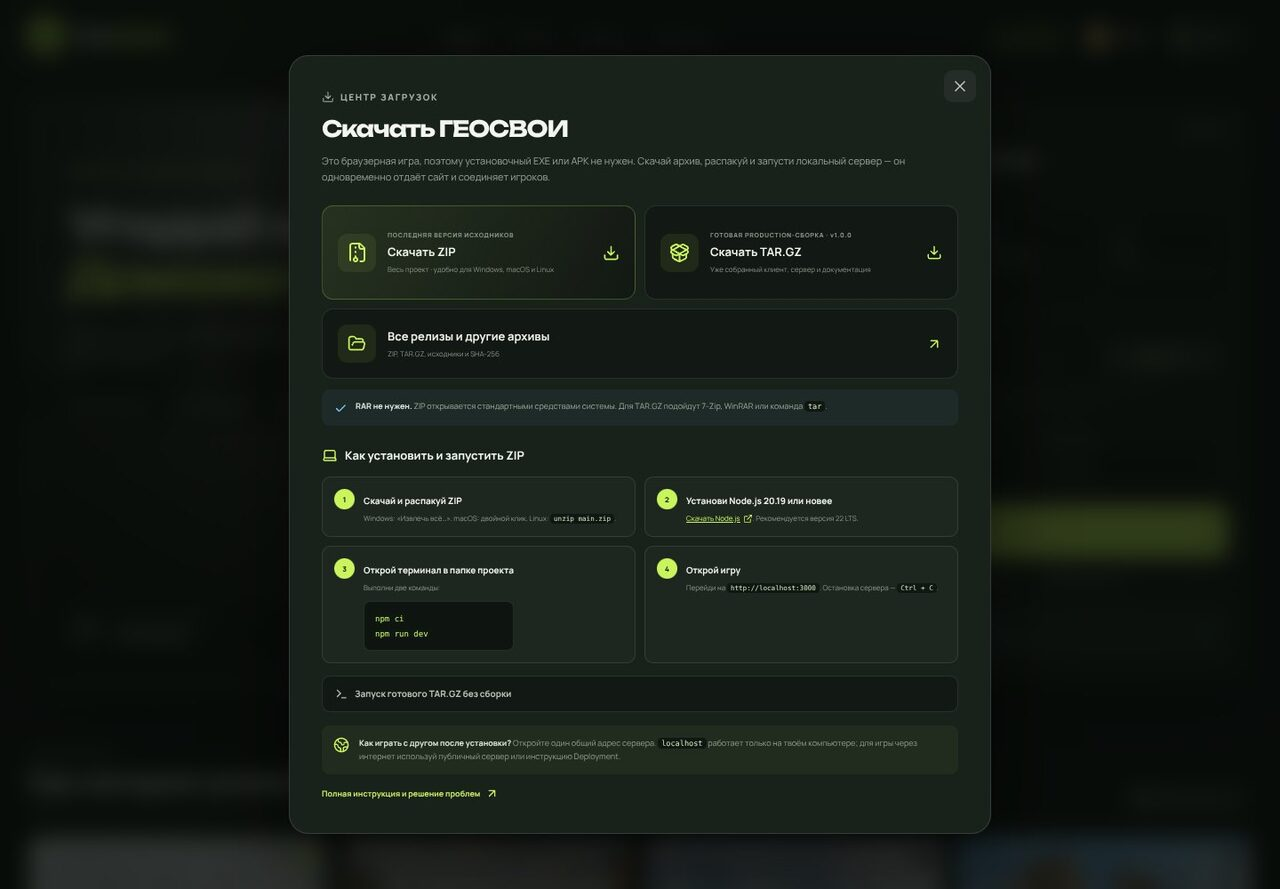
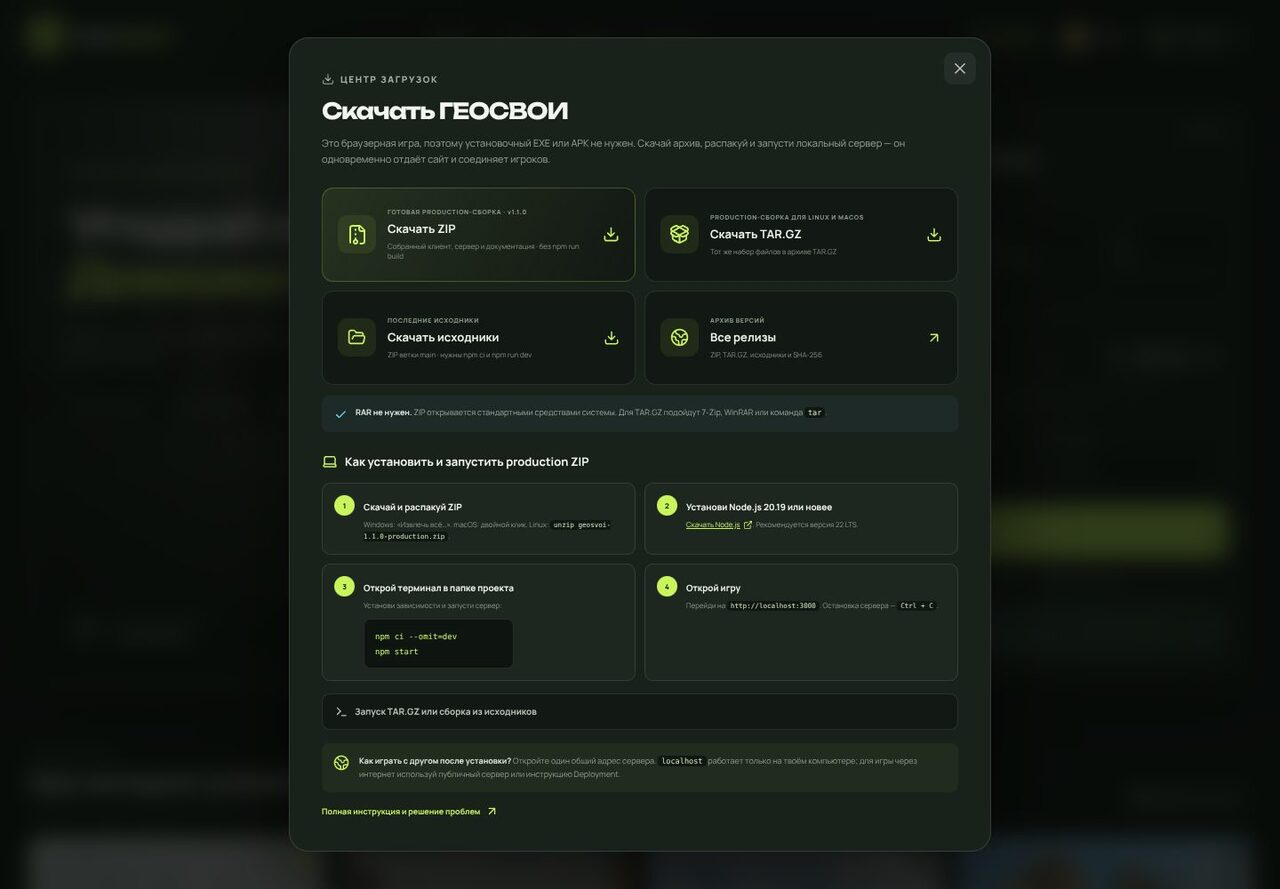
release: prepare 1.1.0 production ZIP downloads
- bump the package and lockfile version to 1.1.0
- feature the ready-to-run production ZIP in the download center and
  keep TAR.GZ, source ZIP and the releases page one click away
- teach the first-run tutorial the production flow (npm ci --omit=dev,
  npm start) and show TAR.GZ/source commands as alternatives
- update README, DOWNLOAD guide and add 1.1.0 release notes

diff --git a/src/components/DownloadModal.tsx b/src/components/DownloadModal.tsx
@@ -2,8 +2,10 @@ import { ArrowUpRight, Check, Download, ExternalLink, FileArchive, FolderOpen, G
 import { Modal } from './UI';
 
 const REPOSITORY = 'https://github.com/romanata10/the-street-view-game-by-ai-';
+const VERSION = '1.1.0';
 const SOURCE_ZIP = `${REPOSITORY}/archive/refs/heads/main.zip`;
-const PRODUCTION_TAR = `${REPOSITORY}/releases/download/v1.0.0/geosvoi-1.0.0-production.tar.gz`;
+const PRODUCTION_ZIP = `${REPOSITORY}/releases/download/v${VERSION}/geosvoi-${VERSION}-production.zip`;
+const PRODUCTION_TAR = `${REPOSITORY}/releases/download/v${VERSION}/geosvoi-${VERSION}-production.tar.gz`;
 const RELEASES = `${REPOSITORY}/releases/latest`;
 const GUIDE = `${REPOSITORY}/blob/main/docs/DOWNLOAD.ru.md`;
 
@@ -15,19 +17,24 @@ export default function DownloadModal({ onClose }: { onClose: () => void }) {
       <p className="download-intro">Это браузерная игра, поэтому установочный EXE или APK не нужен. Скачай архив, распакуй и запусти локальный сервер — он одновременно отдаёт сайт и соединяет игроков.</p>
 
       <div className="download-options">
-        <a className="download-option featured" href={SOURCE_ZIP} target="_blank" rel="noreferrer">
+        <a className="download-option featured" href={PRODUCTION_ZIP} target="_blank" rel="noreferrer">
           <span className="download-option-icon"><FileArchive size={24} /></span>
-          <span><small>ПОСЛЕДНЯЯ ВЕРСИЯ ИСХОДНИКОВ</small><b>Скачать ZIP</b><em>Весь проект · удобно для Windows, macOS и Linux</em></span>
+          <span><small>ГОТОВАЯ PRODUCTION-СБОРКА · v{VERSION}</small><b>Скачать ZIP</b><em>Собранный клиент, сервер и документация · без npm run build</em></span>
           <Download size={19} />
         </a>
         <a className="download-option" href={PRODUCTION_TAR} target="_blank" rel="noreferrer">
           <span className="download-option-icon"><PackageOpen size={23} /></span>
-          <span><small>ГОТОВАЯ PRODUCTION-СБОРКА · v1.0.0</small><b>Скачать TAR.GZ</b><em>Уже собранный клиент, сервер и документация</em></span>
+          <span><small>PRODUCTION-СБОРКА ДЛЯ LINUX И MACOS</small><b>Скачать TAR.GZ</b><em>Тот же набор файлов в архиве TAR.GZ</em></span>
           <Download size={18} />
         </a>
-        <a className="download-option compact" href={RELEASES} target="_blank" rel="noreferrer">
+        <a className="download-option" href={SOURCE_ZIP} target="_blank" rel="noreferrer">
           <span className="download-option-icon"><FolderOpen size={21} /></span>
-          <span><b>Все релизы и другие архивы</b><em>ZIP, TAR.GZ, исходники и SHA-256</em></span>
+          <span><small>ПОСЛЕДНИЕ ИСХОДНИКИ</small><b>Скачать исходники</b><em>ZIP ветки main · нужны npm ci и npm run dev</em></span>
+          <Download size={18} />
+        </a>
+        <a className="download-option" href={RELEASES} target="_blank" rel="noreferrer">
+          <span className="download-option-icon"><Globe2 size={21} /></span>
+          <span><small>АРХИВ ВЕРСИЙ</small><b>Все релизы</b><em>ZIP, TAR.GZ, исходники и SHA-256</em></span>
           <ArrowUpRight size={18} />
         </a>
       </div>
@@ -35,18 +42,19 @@ export default function DownloadModal({ onClose }: { onClose: () => void }) {
       <div className="download-format-note"><Check size={15} /><span><b>RAR не нужен.</b> ZIP открывается стандартными средствами системы. Для TAR.GZ подойдут 7-Zip, WinRAR или команда <code>tar</code>.</span></div>
 
       <section className="download-tutorial">
-        <h3><Laptop size={18} /> Как установить и запустить ZIP</h3>
+        <h3><Laptop size={18} /> Как установить и запустить production ZIP</h3>
         <ol>
-          <li><span>1</span><div><b>Скачай и распакуй ZIP</b><p>Windows: «Извлечь всё…». macOS: двойной клик. Linux: <code>unzip main.zip</code>.</p></div></li>
+          <li><span>1</span><div><b>Скачай и распакуй ZIP</b><p>Windows: «Извлечь всё…». macOS: двойной клик. Linux: <code>unzip geosvoi-{VERSION}-production.zip</code>.</p></div></li>
           <li><span>2</span><div><b>Установи Node.js 20.19 или новее</b><p><a href="https://nodejs.org/en/download" target="_blank" rel="noreferrer">Скачать Node.js <ExternalLink size={11} /></a>. Рекомендуется версия 22 LTS.</p></div></li>
-          <li><span>3</span><div><b>Открой терминал в папке проекта</b><p>Выполни две команды:</p><pre><code>npm ci{`\n`}npm run dev</code></pre></div></li>
+          <li><span>3</span><div><b>Открой терминал в папке проекта</b><p>Установи зависимости и запусти сервер:</p><pre><code>npm ci --omit=dev{`\n`}npm start</code></pre></div></li>
           <li><span>4</span><div><b>Открой игру</b><p>Перейди на <code>http://localhost:3000</code>. Остановка сервера — <code>Ctrl + C</code>.</p></div></li>
         </ol>
       </section>
 
       <details className="production-instructions">
-        <summary><Terminal size={15} /> Запуск готового TAR.GZ без сборки</summary>
-        <pre><code>tar -xzf geosvoi-1.0.0-production.tar.gz{`\n`}cd geosvoi-1.0.0{`\n`}npm ci --omit=dev{`\n`}npm start</code></pre>
+        <summary><Terminal size={15} /> Запуск TAR.GZ или сборка из исходников</summary>
+        <pre><code>tar -xzf geosvoi-{VERSION}-production.tar.gz{`\n`}cd geosvoi-{VERSION}{`\n`}npm ci --omit=dev{`\n`}npm start</code></pre>
+        <pre><code>git clone https://github.com/romanata10/the-street-view-game-by-ai-.git{`\n`}cd the-street-view-game-by-ai-{`\n`}npm ci{`\n`}npm run dev</code></pre>
       </details>
 
       <div className="download-friend-note"><Globe2 size={18} /><p><b>Как играть с другом после установки?</b> Откройте один общий адрес сервера. <code>localhost</code> работает только на твоём компьютере; для игры через интернет используй публичный сервер или инструкцию Deployment.</p></div>

diff --git a/docs/DOWNLOAD.ru.md b/docs/DOWNLOAD.ru.md
@@ -8,28 +8,40 @@
 
 | Что скачать | Для чего | Ссылка |
 |---|---|---|
-| **ZIP с исходниками `main`** | Последняя версия, разработка, самостоятельная сборка | [Скачать ZIP](https://github.com/romanata10/the-street-view-game-by-ai-/archive/refs/heads/main.zip) |
-| **Production TAR.GZ 1.0.0** | Готовый клиент и сервер без команды `npm run build` | [Скачать TAR.GZ](https://github.com/romanata10/the-street-view-game-by-ai-/releases/download/v1.0.0/geosvoi-1.0.0-production.tar.gz) |
+| **Production ZIP 1.1.0** | Готовый клиент и сервер: не нужна команда `npm run build` | [Скачать production ZIP](https://github.com/romanata10/the-street-view-game-by-ai-/releases/download/v1.1.0/geosvoi-1.1.0-production.zip) |
+| **Production TAR.GZ 1.1.0** | Тот же набор файлов для Linux и macOS | [Скачать production TAR.GZ](https://github.com/romanata10/the-street-view-game-by-ai-/releases/download/v1.1.0/geosvoi-1.1.0-production.tar.gz) |
+| **ZIP с исходниками `main`** | Последняя версия, разработка, изменение интерфейса и Google-ключа | [Скачать ZIP исходников](https://github.com/romanata10/the-street-view-game-by-ai-/archive/refs/heads/main.zip) |
 | **Последний стабильный релиз** | Все доступные production ZIP/TAR.GZ, SHA-256 и исходники | [Открыть Releases](https://github.com/romanata10/the-street-view-game-by-ai-/releases/latest) |
 
 В приложении эти ссылки также находятся в кнопке **«Скачать»** в верхней панели.
 
-> Production ZIP и TAR.GZ формируются GitHub Actions из одного набора файлов. Для новых релизов workflow прикрепляет оба архива и отдельный `.sha256` для каждого. Специальный RAR не требуется: ZIP открывается встроенными средствами Windows, macOS и Linux.
+> Production ZIP и TAR.GZ формируются GitHub Actions из одного набора файлов. Для каждого релиза workflow прикрепляет оба архива и отдельный `.sha256` для каждого. Специальный RAR не требуется: ZIP открывается встроенными средствами Windows, macOS и Linux.
 
-## Вариант 1. ZIP с исходниками
+## Вариант 1. Готовый production-архив (рекомендуется)
+
+Production-архив уже содержит собранный `dist`, поэтому Vite и TypeScript для запуска не нужны. Достаточно Node.js и установки production-зависимостей.
 
 ### 1. Распакуйте архив
 
-- **Windows:** нажмите правой кнопкой по ZIP → **«Извлечь всё…»**.
-- **macOS:** откройте ZIP двойным кликом.
-- **Linux:** используйте файловый менеджер или команду:
+**ZIP:**
+
+- **Windows:** правой кнопкой по файлу → **«Извлечь всё…»** → **«Извлечь»**.
+- **macOS:** двойной клик по ZIP.
+- **Linux:** файловый менеджер или команда:
 
 ```bash
-unzip main.zip
-cd the-street-view-game-by-ai--main
+unzip geosvoi-1.1.0-production.zip
+cd geosvoi-1.1.0
 ```
 
-GitHub формирует имя папки автоматически, поэтому оно может немного отличаться. Перейдите в папку, внутри которой находятся `package.json`, `src`, `server` и `shared`.
+**TAR.GZ:** подойдут 7-Zip, WinRAR, архиватор macOS или команда `tar`:
+
+```bash
+tar -xzf geosvoi-1.1.0-production.tar.gz
+cd geosvoi-1.1.0
+```
+
+Внутри должны находиться `package.json`, папки `dist`, `server`, `shared` и `docs`.
 
 ### 2. Установите Node.js
 
@@ -37,7 +49,7 @@ GitHub формирует имя папки автоматически, поэт
 
 [Скачать Node.js с официального сайта](https://nodejs.org/en/download).
 
-Проверьте установку:
+Проверьте установку в новом окне терминала:
 
 ```bash
 node --version
@@ -46,11 +58,9 @@ npm --version
 
 ### 3. Установите зависимости и запустите игру
 
-Откройте терминал в папке проекта:
-
 ```bash
-npm ci
-npm run dev
+npm ci --omit=dev
+npm start
 ```
 
 После сообщения `ГЕОСВОИ запущены` откройте:
@@ -59,59 +69,52 @@ npm run dev
 http://localhost:3000
 ```
 
-Остановить сервер можно клавишами **Ctrl + C**. При следующем запуске достаточно команды `npm run dev`; повторно выполнять `npm ci` после каждого закрытия не нужно.
+Остановить сервер можно клавишами **Ctrl + C**. При следующем запуске достаточно команды `npm start`; повторно выполнять `npm ci` после каждого закрытия не нужно.
 
-## Вариант 2. Готовый production-архив
+## Вариант 2. ZIP с исходниками
 
-Production-архив уже содержит собранный `dist`, поэтому Vite и TypeScript для запуска не нужны.
+Этот вариант нужен, если вы хотите менять код, интерфейс или подключить собственный Google API. В архиве есть `src`, но нет готового `dist`: клиент собирается локально.
 
-### ZIP
-
-Распакуйте production ZIP и откройте терминал в папке `geosvoi-ВЕРСИЯ`.
-
-### TAR.GZ
-
-Windows 10/11, macOS и Linux могут распаковать его командой `tar`. Также подойдут 7-Zip и WinRAR:
+1. Распакуйте ZIP так же, как описано выше. GitHub формирует имя папки автоматически, поэтому оно может немного отличаться.
+2. Установите Node.js 20.19+.
+3. Откройте терминал в папке, где находятся `package.json`, `src`, `server` и `shared`.
+4. Установите зависимости и запустите dev-сервер:
 
 ```bash
-tar -xzf geosvoi-1.0.0-production.tar.gz
-cd geosvoi-1.0.0
+npm ci
+npm run dev
 ```
 
-### Запуск обоих форматов
-
-```bash
-npm ci --omit=dev
-npm start
-```
-
-Откройте `http://localhost:3000`. В production-архиве нет исходного `src`; для изменения интерфейса или встраивания нового Google-ключа скачайте ZIP с исходниками.
+После сообщения `ГЕОСВОИ запущены` откройте `http://localhost:3000`. Для production-запуска исходников выполните `npm run build`, затем `npm start`.
 
 ## Проверка SHA-256
 
-Если рядом с архивом есть `.sha256`, скачайте его в ту же папку.
+Рядом с каждым production-архивом лежит файл `.sha256`. Скачайте архив и соответствующий `.sha256` в одну папку.
 
 Linux / macOS:
 
 ```bash
-sha256sum -c geosvoi-1.0.0-production.tar.gz.sha256
+sha256sum -c geosvoi-1.1.0-production.zip.sha256
+sha256sum -c geosvoi-1.1.0-production.tar.gz.sha256
 ```
 
 Windows PowerShell:
 
 ```powershell
-(Get-FileHash .\geosvoi-1.0.0-production.tar.gz -Algorithm SHA256).Hash
+(Get-FileHash .\geosvoi-1.1.0-production.zip -Algorithm SHA256).Hash
+(Get-FileHash .\geosvoi-1.1.0-production.tar.gz -Algorithm SHA256).Hash
 ```
 
 Сравните результат со строкой внутри `.sha256`. Регистр букв хеша значения не имеет.
 
 ## Google Street View
 
-Без ключа доступны все встроенные демонстрационные панорамы, прогулка, избранное и совместное присутствие. Для реальных Google-сцен:
+Без ключа доступны все встроенные демонстрационные панорамы, свободная прогулка, избранное и совместное присутствие. Для реальных Google-сцен:
 
-1. Создайте `.env` по примеру `.env.example`.
-2. Добавьте `VITE_GOOGLE_MAPS_API_KEY=ваш_ключ`.
-3. В исходниках выполните `npm run build`, затем запустите `npm start`.
+1. Возьмите архив с исходниками: в production-сборке нет папки `src`, поэтому ключ нельзя встроить без пересборки.
+2. Создайте `.env` по примеру `.env.example`.
+3. Добавьте `VITE_GOOGLE_MAPS_API_KEY=ваш_ключ`.
+4. Выполните `npm run build`, затем `npm start`.
 
 Полная настройка: [GOOGLE_MAPS.ru.md](GOOGLE_MAPS.ru.md). Не отправляйте ключ в чат и не коммитьте `.env`.
 
@@ -127,6 +130,15 @@ Windows PowerShell:
 
 После этого хост создаёт матч или **«Погулять с другом»**, а гость заходит по ссылке/коду. В свободную прогулку можно войти даже после её начала.
 
+## Обновление до новой версии
+
+1. Скачайте архивы нового релиза и проверьте SHA-256.
+2. Остановите старый сервер (`Ctrl + C`).
+3. Распакуйте новый архив в отдельную папку.
+4. Выполните `npm ci --omit=dev` и `npm start`.
+
+Профиль, монеты и избранное хранятся в `localStorage` браузера, поэтому обновление серверных файлов их не удаляет. Комнаты существуют только в памяти сервера: после перезапуска создайте новую и отправьте другу свежую ссылку.
+
 ## Частые проблемы
 
 ### `npm is not recognized` / `npm: command not found`
@@ -140,7 +152,7 @@ Node.js не установлен или терминал открыт до ус
 ### Порт 3000 уже занят
 
 ```bash
-PORT=8080 npm run dev
+PORT=8080 npm start
 ```
 
 Откройте `http://localhost:8080`.
@@ -152,3 +164,7 @@ PORT=8080 npm run dev
 ### Архив не открывается
 
 Скачайте его ещё раз и проверьте SHA-256. Для TAR.GZ используйте 7-Zip/WinRAR либо выберите ZIP из последнего релиза. Не переименовывайте расширение архива вручную.
+
+### После распаковки нет папки `src`
+
+Это production-архив. Для изменения кода скачайте ZIP с исходниками. Для обычной игры отсутствие `src` не мешает.

diff --git a/docs/releases/v1.1.0.md b/docs/releases/v1.1.0.md
@@ -1,0 +1,66 @@
+# ГЕОСВОИ 1.1.0 — свободная прогулка с другом
+
+В этом релизе появился отдельный совместный режим без таймера и соревнования, избранные панорамы и встроенный центр загрузок. Присутствие друга теперь явно показывается во всех режимах.
+
+## Что нового
+
+- **«Погуляй с другом»** — свободная прогулка по 16 встроенным местам и Google Street View без таймера, ответов, очков и раундов.
+- **Независимые места** — каждый участник меняет свою сцену, не перемещая остальных.
+- **Переход к другу** — кнопка «К другу» открывает текущую локацию друга, а в Google — точный `panoId` и направление взгляда.
+- **Подключение после старта** — гость входит по ссылке в уже идущую прогулку и появляется в сцене хоста.
+- **Избранные места** — сохраняются в браузере вместе с Google `panoId` и направлением взгляда; вкладка «Избранное» открывает их одним нажатием.
+- **«В том же месте» во всех режимах** — постоянный баннер, статус в списке игроков и уведомление о встрече работают и в прогулке, и в соревновательном матче.
+- **Центр загрузок** — кнопка «Скачать» с готовыми production ZIP/TAR.GZ, исходниками, пошаговой установкой и проверкой SHA-256.
+
+## Быстрый старт из production-архива
+
+```bash
+unzip geosvoi-1.1.0-production.zip
+cd geosvoi-1.1.0
+npm ci --omit=dev
+npm start
+```
+
+Либо TAR.GZ:
+
+```bash
+tar -xzf geosvoi-1.1.0-production.tar.gz
+cd geosvoi-1.1.0
+npm ci --omit=dev
+npm start
+```
+
+Откройте `http://localhost:3000`. Нужен Node.js 20.19+, рекомендуется Node.js 22 LTS.
+
+Из исходников:
+
+```bash
+npm ci
+npm run dev
+```
+
+## Как позвать друга в прогулку
+
+1. На главной странице нажмите **«Погулять с другом»**.
+2. Скопируйте ссылку-приглашение или продиктуйте код комнаты.
+3. Друг открывает ссылку и нажимает **«Я готов играть»**.
+4. Хост нажимает **«Начать прогулку»**.
+5. Меняйте места кнопкой **«Сменить место»**, сохраняйте любимые панорамы и переходите к другу кнопкой **«К другу»**.
+
+Друг может подключиться и после старта — он окажется в текущей сцене хоста.
+
+## Документация
+
+- [Как играть с друзьями](https://github.com/romanata10/the-street-view-game-by-ai-/blob/main/docs/HOW_TO_PLAY.ru.md)
+- [Как скачать и запустить](https://github.com/romanata10/the-street-view-game-by-ai-/blob/main/docs/DOWNLOAD.ru.md)
+- [Настройка Google Maps](https://github.com/romanata10/the-street-view-game-by-ai-/blob/main/docs/GOOGLE_MAPS.ru.md)
+- [Production и Docker](https://github.com/romanata10/the-street-view-game-by-ai-/blob/main/docs/DEPLOYMENT.ru.md)
+
+## Проверки
+
+- `npm run test:content` — 8 городов, 16 панорам и уникальные подсказки.
+- `npm run build` — TypeScript и Vite production build.
+- Два изолированных браузерных профиля: старт прогулки, 16 мест, независимые сцены, переход к другу, избранное, чат и позднее подключение.
+- Обычный матч с двумя реальными игроками: баннер и статус «В том же месте».
+- Сборка архивов: `unzip -t`, `npm ci --omit=dev`, ответы `/`, `/api/health` и `/ws` из распакованного production ZIP.
+- Мобильная вёрстка 390×844 без горизонтального скролла и пересечений панелей.

diff --git a/README.md b/README.md
@@ -39,8 +39,10 @@
 
 В меню игры нажмите **«Скачать»**: там показаны архивы и пошаговая установка.
 
-- [ZIP с последними исходниками](https://github.com/romanata10/the-street-view-game-by-ai-/archive/refs/heads/main.zip) — проще всего распаковать на любой системе.
-- [Последний релиз](https://github.com/romanata10/the-street-view-game-by-ai-/releases/latest) — готовые production ZIP/TAR.GZ и SHA-256.
+- [Production ZIP 1.1.0](https://github.com/romanata10/the-street-view-game-by-ai-/releases/download/v1.1.0/geosvoi-1.1.0-production.zip) — готовый клиент и сервер, команда `npm run build` не нужна.
+- [Production TAR.GZ 1.1.0](https://github.com/romanata10/the-street-view-game-by-ai-/releases/download/v1.1.0/geosvoi-1.1.0-production.tar.gz) — тот же набор файлов для Linux и macOS.
+- [ZIP с последними исходниками](https://github.com/romanata10/the-street-view-game-by-ai-/archive/refs/heads/main.zip) — для разработки и своей сборки.
+- [Последний релиз](https://github.com/romanata10/the-street-view-game-by-ai-/releases/latest) — все архивы и SHA-256.
 - [Полная инструкция по скачиванию](docs/DOWNLOAD.ru.md) — установка, запуск, подключение друга и решение ошибок.
 
 RAR не нужен: ZIP открывается стандартными средствами Windows, macOS и Linux.

diff --git a/CHANGELOG.md b/CHANGELOG.md
@@ -4,13 +4,15 @@
 
 ## [Unreleased]
 
+## [1.1.0] — 2026-11-06
+
 ### Добавлено
 
 - Свободный совместный режим «Погуляй с другом» без таймера, очков и раундов.
 - Независимая смена всех 16 локаций, подключение после старта и переход к текущей сцене друга.
 - Избранные места с сохранением Google `panoId` и направления взгляда в браузере.
 - Постоянный статус и WebSocket-уведомления о совпадении места во всех режимах.
-- Центр загрузок, инструкция DOWNLOAD и production ZIP в дополнение к TAR.GZ.
+- Центр загрузок с production ZIP и TAR.GZ, пошаговой установкой и инструкцией DOWNLOAD.
 
 ### Исправлено
 
@@ -47,4 +49,5 @@
 - GitHub Actions: контент, TypeScript, сборка, запуск сервера и Docker healthcheck.
 - Проверка контента через `npm run test:content`.
 
+[1.1.0]: https://github.com/romanata10/the-street-view-game-by-ai-/releases/tag/v1.1.0
 [1.0.0]: https://github.com/romanata10/the-street-view-game-by-ai-/releases/tag/v1.0.0
